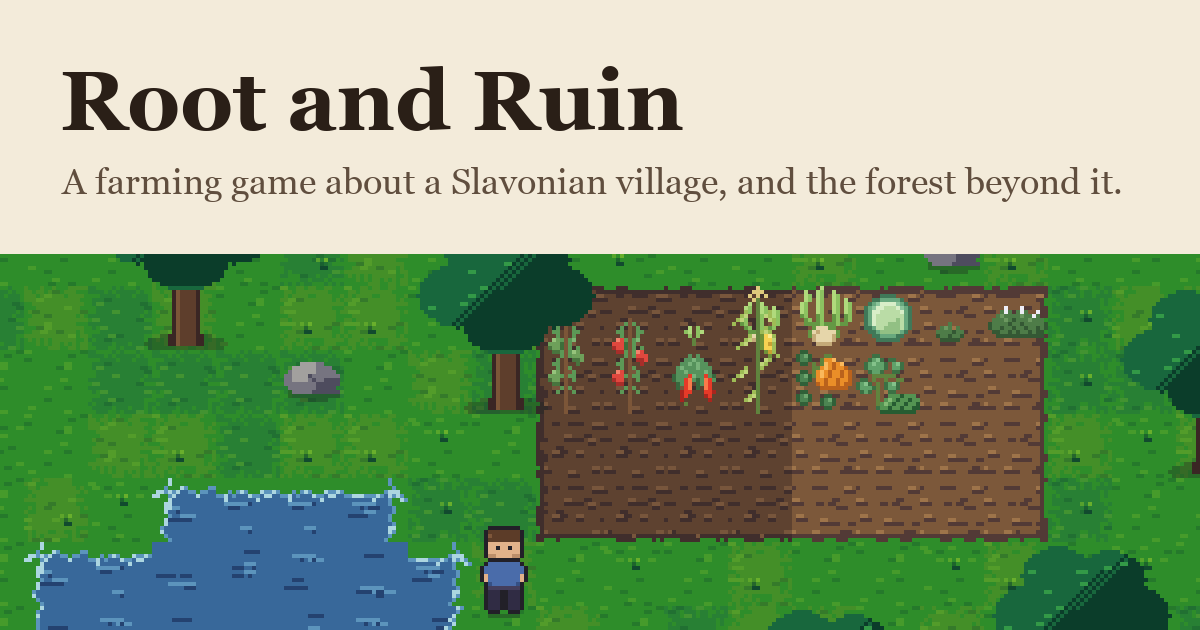
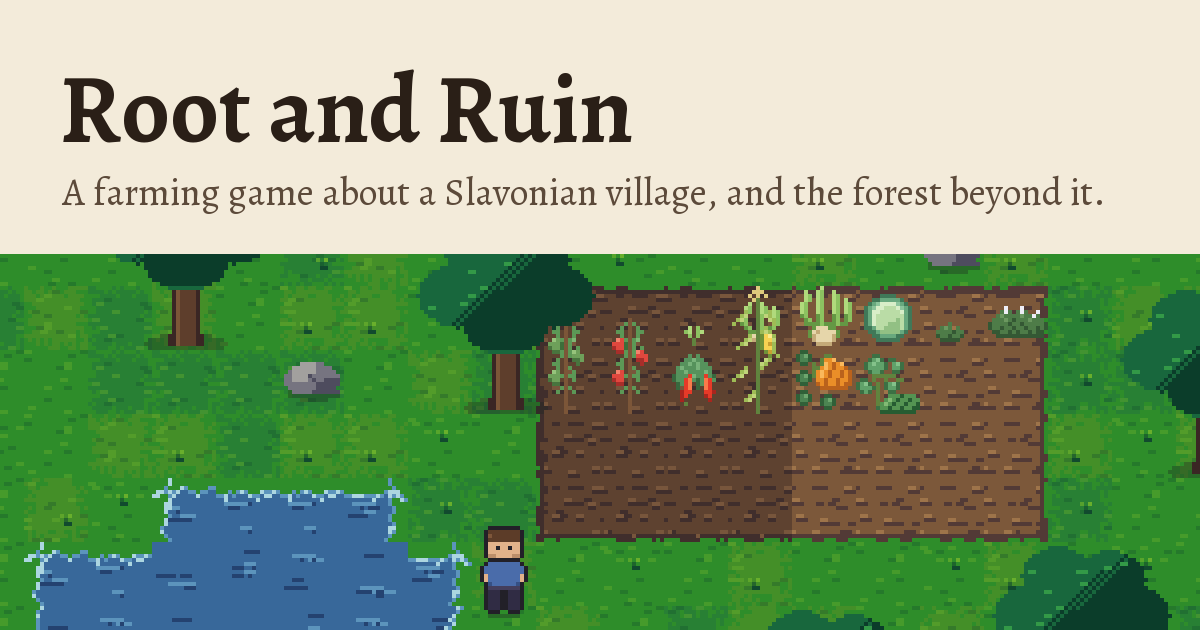
Fix contrast, add a 404 page and post metadata

Changed region(s): [[0.0308, 0.0905, 0.5858, 0.2413], [0.0308, 0.2714, 0.925, 0.3317]]

diff --git a/devlog/why-this-game/index.html b/devlog/why-this-game/index.html
@@ -5,7 +5,34 @@
 <meta name="viewport" content="width=device-width, initial-scale=1">
 <title>Why a farming game about a village that is emptying out · Root and Ruin</title>
 <meta name="description" content="Where the idea comes from, what the game is, and where it stands.">
+<meta name="author" content="Robert Stanić">
 <link rel="canonical" href="https://rootandruin.net/devlog/why-this-game/">
+<script type="application/ld+json">
+{
+  "@context": "https://schema.org",
+  "@type": "BlogPosting",
+  "headline": "Why a farming game about a village that is emptying out",
+  "description": "Where the idea comes from, what the game is, and where it stands.",
+  "datePublished": "2026-09-09",
+  "author": {
+    "@type": "Person",
+    "name": "Robert Stani\u0107",
+    "url": "https://robertstanic.com"
+  },
+  "publisher": {
+    "@type": "Person",
+    "name": "Robert Stani\u0107",
+    "url": "https://robertstanic.com"
+  },
+  "mainEntityOfPage": "https://rootandruin.net/devlog/why-this-game/",
+  "image": "https://rootandruin.net/assets/img/og-image.png",
+  "isPartOf": {
+    "@type": "Blog",
+    "name": "Root and Ruin devlog",
+    "url": "https://rootandruin.net/"
+  }
+}
+</script>
 <meta property="og:type" content="article">
 <meta property="og:url" content="https://rootandruin.net/devlog/why-this-game/">
 <meta property="og:title" content="Why a farming game about a village that is emptying out · Root and Ruin">
@@ -45,7 +72,8 @@
 <h2>Where it stands</h2>
 <p>I am building it alone, in the evenings, in Godot. There is a farm you can walk around, four seasons with a full calendar, and the eight crops, which I redrew by hand this week so that a cabbage looks like a cabbage. That is the strip on the front page.</p>
 <p>The village street and the river are on the drawing board now. When they exist, that is when the first real screenshots go up. No release date. If you want to follow along, the feed link at the bottom is the way; every post lands there.</p>
-<p>Robert</p>
+<p class="sig">Robert</p>
+
   <p class="back"><a href="../../#devlog">All posts</a></p>
 </article>
 </main>

diff --git a/assets/css/style.css b/assets/css/style.css
@@ -31,15 +31,23 @@
   unicode-range: U+0100-02BA, U+02BD-02C5, U+02C7-02CC, U+02CE-02D7, U+02DD-02FF, U+0304, U+0308, U+0329, U+1D00-1DBF, U+1E00-1E9F, U+1EF2-1EFF, U+2020, U+20A0-20AB, U+20AD-20C0, U+2113, U+2C60-2C7F, U+A720-A7FF;
 }
 
+@font-face {
+  font-family: "Alegreya Fallback";
+  src: local("Georgia");
+  size-adjust: 94%;
+  ascent-override: 100%;
+  descent-override: 28%;
+}
+
 :root {
   --vapno: #f3ebda;
   --vapno-deep: #e9dfc8;
   --sjena: #d9cbaf;
   --crnica: #2a1f17;
   --zemlja: #5c4a3a;
-  --crijep: #b8563a;
-  --crijep-deep: #944130;
-  --zlatovez: #b98d12;
+  --crijep: #a84a30;
+  --crijep-deep: #86392a;
+  --zlatovez: #8a6a0e;
   --livada: #4f8a34;
   --measure: 38rem;
   --scene: 960px;
@@ -50,7 +58,7 @@
 html {
   background: var(--vapno);
   color: var(--crnica);
-  font-family: "Alegreya", Georgia, "Times New Roman", serif;
+  font-family: "Alegreya", "Alegreya Fallback", Georgia, serif;
   font-size: 112.5%;
   line-height: 1.55;
   -webkit-text-size-adjust: 100%;
@@ -151,8 +159,8 @@ main { flex: 1; width: 100%; }
 }
 .pitch { padding-top: 1.4rem; }
 .pitch p { margin: 0 0 1rem; font-size: 1.1rem; }
-.status {
-  margin-top: 1.6rem !important;
+.pitch p.status {
+  margin-top: 1.6rem;
   padding-left: 1rem;
   border-left: 3px solid var(--zlatovez);
   color: var(--zemlja);
@@ -165,6 +173,7 @@ h2 {
   font-weight: 700;
   margin: 0 0 1rem;
 }
+.follow { margin: -0.4rem 0 1.2rem; color: var(--zemlja); }
 .posts {
   list-style: none;
   padding: 0;
@@ -239,7 +248,18 @@ h2 {
   font-size: 0.95rem;
   font-style: italic;
 }
-.back { margin-top: 2.5rem; }
+.post p.sig { margin-top: 2rem; font-style: italic; }
+.neighbours {
+  display: flex;
+  justify-content: space-between;
+  gap: 1rem;
+  margin-top: 2.5rem;
+  padding-top: 1rem;
+  border-top: 1px solid var(--sjena);
+}
+.neighbours a { max-width: 48%; }
+.back { margin-top: 1.5rem; }
+.lost { padding: 3rem 0; max-width: var(--measure); margin: 0 auto; }
 
 .foot {
   width: 100%;

diff --git a/404.html b/404.html
@@ -1,0 +1,40 @@
+<!DOCTYPE html>
+<html lang="en">
+<head>
+<meta charset="utf-8">
+<meta name="viewport" content="width=device-width, initial-scale=1">
+<title>Page not found · Root and Ruin</title>
+<meta name="description" content="That page does not exist.">
+<meta name="author" content="Robert Stanić">
+<link rel="canonical" href="https://rootandruin.net/404">
+<meta property="og:type" content="website">
+<meta property="og:url" content="https://rootandruin.net/404">
+<meta property="og:title" content="Page not found · Root and Ruin">
+<meta property="og:description" content="That page does not exist.">
+<meta property="og:image" content="https://rootandruin.net/assets/img/og-image.png">
+<meta name="twitter:card" content="summary_large_image">
+<meta name="theme-color" content="#f3ebda">
+<link rel="icon" href="favicon-32.png" sizes="32x32">
+<link rel="icon" href="favicon-16.png" sizes="16x16">
+<link rel="apple-touch-icon" href="assets/apple-touch-icon.png">
+<link rel="alternate" type="application/rss+xml" title="Root and Ruin devlog" href="https://rootandruin.net/feed.xml">
+<link rel="stylesheet" href="assets/css/style.css">
+</head>
+<body>
+<a class="skip" href="#main">Skip to content</a>
+<header class="top">
+  <a class="home" href="">Root and Ruin</a>
+  <nav><a href="#devlog">Devlog</a><a href="feed.xml">Feed</a></nav>
+</header>
+<main id="main">
+<section class="lost">
+  <h1>Nothing grows here</h1>
+  <p>That page does not exist, or it moved. The <a href="/">front page</a> has everything, and the <a href="/#devlog">devlog</a> is where the news lands.</p>
+</section>
+</main>
+<footer class="foot">
+  <p>Made by <a href="https://robertstanic.com">Robert Stanić</a> in Slavonia, Croatia.</p>
+  <p><a href="feed.xml">RSS feed</a> · <a href="https://github.com/Rostanic20/FarmGame">Source on GitHub</a></p>
+</footer>
+</body>
+</html>

diff --git a/index.html b/index.html
@@ -5,6 +5,7 @@
 <meta name="viewport" content="width=device-width, initial-scale=1">
 <title>Root and Ruin</title>
 <meta name="description" content="A farming game about a Slavonian village that is emptying out, and the forest that is not.">
+<meta name="author" content="Robert Stanić">
 <link rel="canonical" href="https://rootandruin.net/">
 <meta property="og:type" content="website">
 <meta property="og:url" content="https://rootandruin.net/">
@@ -38,6 +39,7 @@
 </section>
 <section class="devlog" id="devlog">
   <h2>Devlog</h2>
+  <p class="follow">One post per milestone. Follow with the <a href="feed.xml">RSS feed</a>, or check back.</p>
   <ul class="posts">
 <li><time datetime="2026-09-09">9 September 2026</time><div><a href="devlog/why-this-game/">Why a farming game about a village that is emptying out</a><p>Where the idea comes from, what the game is, and where it stands.</p></div></li>
   </ul>

diff --git a/tools/build.py b/tools/build.py
@@ -72,6 +72,10 @@ def markdown(src):
             out.append('<figure><img src="%s" alt="%s" loading="lazy">%s</figure>'
                        % (src_path, html.escape(alt, quote=True), caption))
             continue
+        if stripped.startswith("~ "):
+            flush()
+            out.append('<p class="sig">%s</p>' % inline(stripped[2:]))
+            continue
         if stripped.startswith("- "):
             if kind != "ul":
                 flush()
@@ -120,7 +124,7 @@ def long_date(d):
     return "%d %s %d" % (d.day, d.strftime("%B"), d.year)
 
 
-def shell(title, description, canonical, body, depth=0, kind="website"):
+def shell(title, description, canonical, body, depth=0, kind="website", extra_head=""):
     base = "../" * depth
     return """<!DOCTYPE html>
 <html lang="en">
@@ -129,7 +133,8 @@ def shell(title, description, canonical, body, depth=0, kind="website"):
 <meta name="viewport" content="width=device-width, initial-scale=1">
 <title>%(title)s</title>
 <meta name="description" content="%(description)s">
-<link rel="canonical" href="%(canonical)s">
+<meta name="author" content="%(author)s">
+<link rel="canonical" href="%(canonical)s">%(extra_head)s
 <meta property="og:type" content="%(kind)s">
 <meta property="og:url" content="%(canonical)s">
 <meta property="og:title" content="%(title)s">
@@ -170,6 +175,7 @@ def shell(title, description, canonical, body, depth=0, kind="website"):
         "author": SITE["author"],
         "author_url": SITE["author_url"],
         "github": SITE["github"],
+        "extra_head": extra_head,
     }
 
 
@@ -191,6 +197,7 @@ def home(posts):
 </section>
 <section class="devlog" id="devlog">
   <h2>Devlog</h2>
+  <p class="follow">One post per milestone. Follow with the <a href="feed.xml">RSS feed</a>, or check back.</p>
   <ul class="posts">
 %(items)s
   </ul>
@@ -203,22 +210,50 @@ def home(posts):
     return shell(SITE["name"], SITE["tagline"], SITE["url"] + "/", body)
 
 
-def post_page(p):
+def post_page(p, newer, older):
+    links = ""
+    if newer or older:
+        older_link = '<a href="../%s/">Older: %s</a>' % (older["slug"], html.escape(older["title"])) if older else "<span></span>"
+        newer_link = '<a href="../%s/">Newer: %s</a>' % (newer["slug"], html.escape(newer["title"])) if newer else "<span></span>"
+        links = '<nav class="neighbours">%s%s</nav>' % (older_link, newer_link)
     body = """<article class="post">
   <header>
     <h1>%(title)s</h1>
     <p class="meta"><time datetime="%(iso)s">%(date)s</time></p>
   </header>
 %(body)s
+%(links)s
   <p class="back"><a href="../../#devlog">All posts</a></p>
 </article>""" % {
         "title": html.escape(p["title"]),
         "iso": p["date"].isoformat(),
         "date": long_date(p["date"]),
         "body": p["body"],
+        "links": links,
     }
+    ld = json.dumps({
+        "@context": "https://schema.org",
+        "@type": "BlogPosting",
+        "headline": p["title"],
+        "description": p["summary"],
+        "datePublished": p["date"].isoformat(),
+        "author": {"@type": "Person", "name": SITE["author"], "url": SITE["author_url"]},
+        "publisher": {"@type": "Person", "name": SITE["author"], "url": SITE["author_url"]},
+        "mainEntityOfPage": p["url"],
+        "image": SITE["url"] + "/assets/img/og-image.png",
+        "isPartOf": {"@type": "Blog", "name": SITE["name"] + " devlog", "url": SITE["url"] + "/"},
+    }, indent=2)
+    extra = '\n<script type="application/ld+json">\n%s\n</script>' % ld
     return shell("%s · %s" % (p["title"], SITE["name"]), p["summary"], p["url"], body,
-                 depth=2, kind="article")
+                 depth=2, kind="article", extra_head=extra)
+
+
+def not_found():
+    body = """<section class="lost">
+  <h1>Nothing grows here</h1>
+  <p>That page does not exist, or it moved. The <a href="/">front page</a> has everything, and the <a href="/#devlog">devlog</a> is where the news lands.</p>
+</section>"""
+    return shell("Page not found · " + SITE["name"], "That page does not exist.", SITE["url"] + "/404", body)
 
 
 def feed(posts):
@@ -248,9 +283,10 @@ def feed(posts):
 
 
 def sitemap(posts):
-    urls = [SITE["url"] + "/"] + [p["url"] for p in posts]
+    newest = max(p["date"] for p in posts).isoformat() if posts else datetime.date.today().isoformat()
+    urls = [(SITE["url"] + "/", newest)] + [(p["url"], p["date"].isoformat()) for p in posts]
     return '<?xml version="1.0" encoding="UTF-8"?>\n<urlset xmlns="http://www.sitemaps.org/schemas/sitemap/0.9">\n' + \
-        "\n".join("  <url><loc>%s</loc></url>" % u for u in urls) + "\n</urlset>\n"
+        "\n".join("  <url><loc>%s</loc><lastmod>%s</lastmod></url>" % (u, d) for u, d in urls) + "\n</urlset>\n"
 
 
 def write(rel, text):
@@ -266,8 +302,11 @@ def main():
                     for n in os.listdir(POSTS_DIR) if n.endswith(".md")),
                    key=lambda p: p["date"], reverse=True)
     write("index.html", home(posts))
-    for p in posts:
-        write("devlog/%s/index.html" % p["slug"], post_page(p))
+    for i, p in enumerate(posts):
+        newer = posts[i - 1] if i > 0 else None
+        older = posts[i + 1] if i + 1 < len(posts) else None
+        write("devlog/%s/index.html" % p["slug"], post_page(p, newer, older))
+    write("404.html", not_found())
     write("feed.xml", feed(posts))
     write("sitemap.xml", sitemap(posts))
 

diff --git a/devlog/2026-09-09-why-this-game.md b/devlog/2026-09-09-why-this-game.md
@@ -32,4 +32,4 @@ I am building it alone, in the evenings, in Godot. There is a farm you can walk 
 
 The village street and the river are on the drawing board now. When they exist, that is when the first real screenshots go up. No release date. If you want to follow along, the feed link at the bottom is the way; every post lands there.
 
-Robert
+~ Robert
